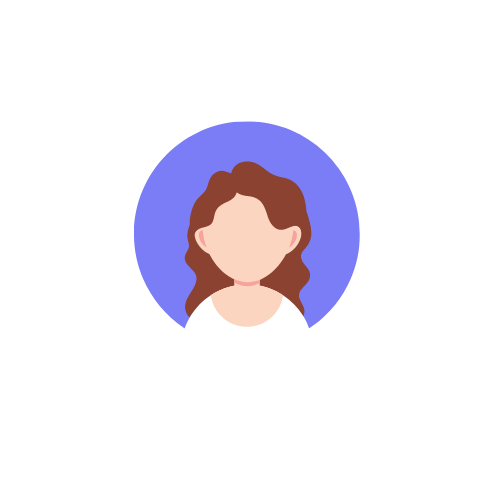
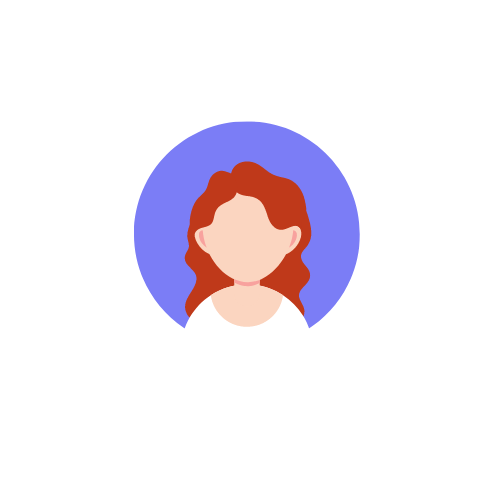
Fix: added in minor fixes for title on Onsite block and some images

Changed region(s): [[0.36, 0.3, 0.63, 0.63]]

diff --git a/src/views/Talent.vue b/src/views/Talent.vue
@@ -63,7 +63,7 @@
   <v-row class="mx-0 mx-md-6 mx-lg-16 my-0">
     <v-col cols="12">
       <v-card class="pa-8 my-0 white--text text-left card-shadow">
-        <v-card-title class="text-md-h3 font-weight-bold primary--text">Why work with Confido?</v-card-title>
+        <v-card-title class="headline font-weight-bold primary--text">Why work with Confido?</v-card-title>
         <v-card-text class="text-h6 primary--text">We ensure our clients are committed to making the right hires, with efficient interview processes, detailed feedback and 24-hour turnaround on decisions.</v-card-text>
         <v-row class="primary--text mx-auto text-center mt-4">
           <v-col cols="6" sm="3">
@@ -286,7 +286,7 @@ export default {
         {
           content: "Confido are one of the most professional recruiters I have ever worked with. Unlike the typical service, they truly put my interests to being the highest priority. They took the time to really understand what my career goals were and tailored every future conversation to help me achieve my goals. What more can I say. highly recommended!",
           advocate: "Anzel L. – Platform Architect",
-          image: "../images/people/fernando.png"
+          image: "../images/people/anzel.png"
         },
         {
           content: "After having been laid off during the worst recession in living memory, I wasn't 100% sure what to do next. Confido called me as soon as they found out and discussed a few options with me. Within a week, Confido had found me my first consulting gig and made some useful introductions for future work too. I've known Confido for a couple of years now and I'd strongly recommend their services to anyone looking for their next gig in the startup world, or anyone hiring in the startup space.",
